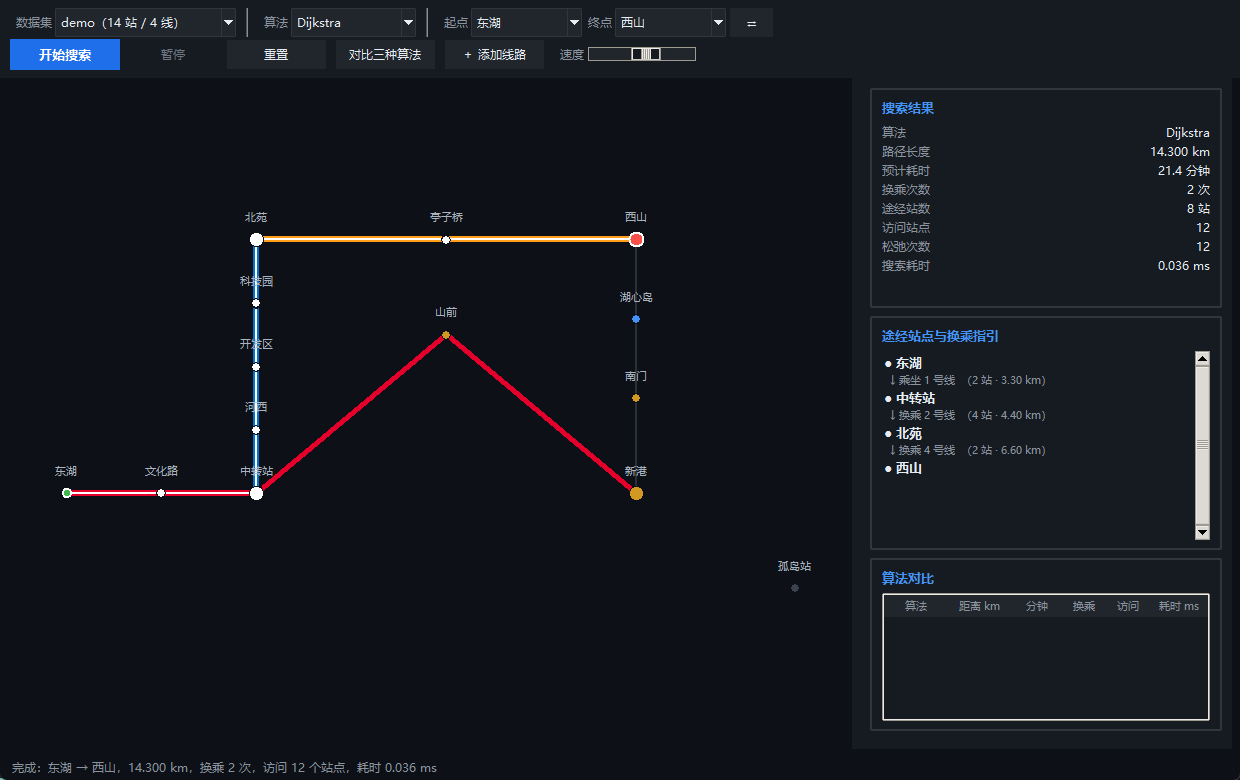
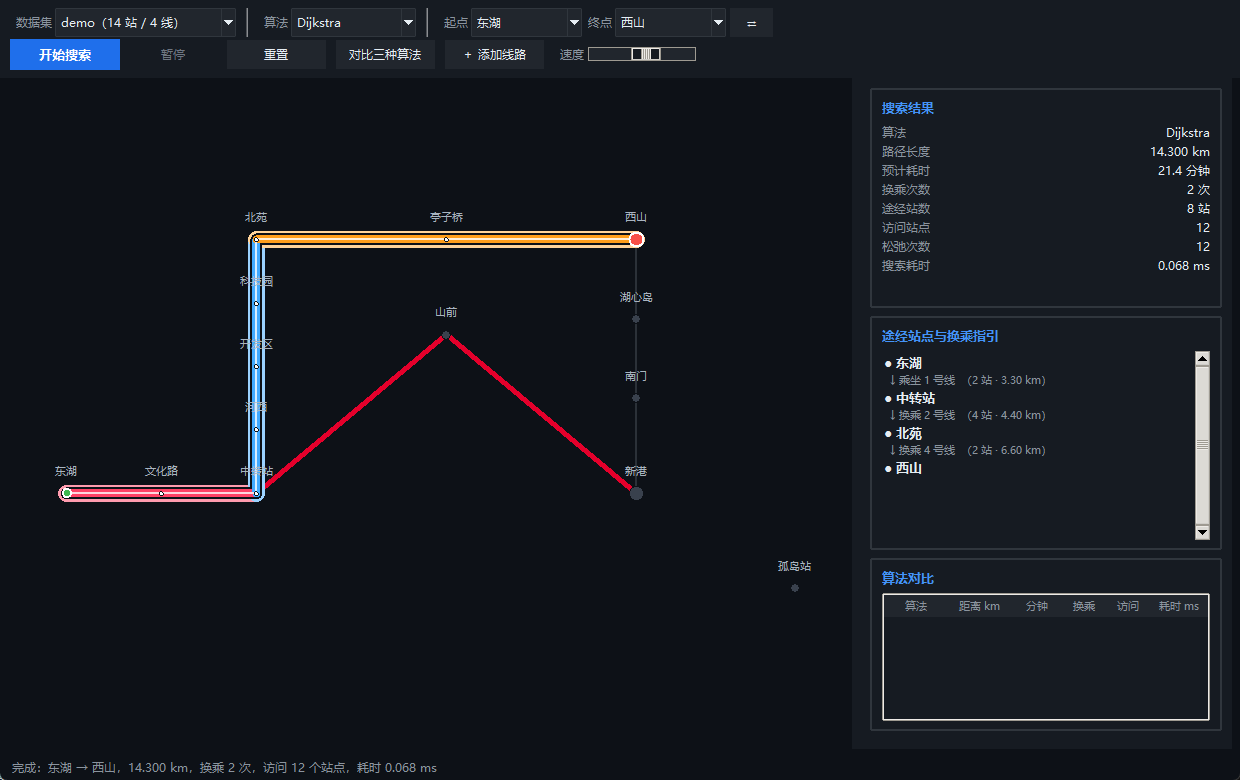
选题一：增强结果路径高亮
- 路径改为四层描边（光晕/深色缝隙/提亮色芯/同色高光），
  深色线路经 HLS 提亮后也能一眼辨认
- 结果态压暗非路径站点、缩小路径站点，避免白点链切断线路颜色
- 同一线路的连续区段合并成折线并按层绘制，消除换乘点白色圆环
- 同步 README、实验报告 4.1 与 03/05/06 截图

Changed region(s): [[0.0306, 0.2769, 0.521, 0.6462], [0.4903, 0.6154, 0.521, 0.6462]]

diff --git a/第一部分/选题一_城市交通路径导航系统/src/ui/theme.py b/第一部分/选题一_城市交通路径导航系统/src/ui/theme.py
@@ -37,6 +37,20 @@ NODE_OUTLINE = "#0d1117"
 EDGE_DIM = "#2b3138"        # 未被路径经过的线路
 LABEL = "#a9b4c0"
 
+# ---------------------------------------------------------------- 结果路径
+# 高亮分四层叠画：亮色光晕 → 深色缝隙 → 线路色主芯 → 同色系高光。
+# 每一层都用"提亮后"的线路色：像 21 号线（#201747 深紫）这种
+# 在深色底图上几乎看不见的线，算出的路径也能一眼跳出来。
+PATH_HALO_WIDTH = 17
+PATH_GAP_WIDTH = 12
+PATH_CORE_WIDTH = 8
+PATH_HIGHLIGHT_WIDTH = 2.4
+PATH_MIN_LUMA = 160.0       # 主芯线路色的最低感知亮度
+PATH_HALO_MIN_LUMA = 205.0  # 光晕的最低感知亮度
+PATH_HIGHLIGHT_MIN_LUMA = 235.0  # 中心高光：同色系里最亮的一档
+PATH_STATION_RADIUS = 2.0   # 结果态路径上的站点缩成小铆钉
+NODE_DIM = "#39414d"        # 结果模式下没被路径经过的站点
+
 # ---------------------------------------------------------------- 字体
 FAMILY = "Microsoft YaHei UI"
 FONT_UI = (FAMILY, 10)

diff --git a/HANDOFF.md b/HANDOFF.md
@@ -1,84 +1,70 @@
 # HANDOFF —— 数据结构实践（两个选题）
 
-> `数据结构实践[副本].docx` 里是两份并列的任务书，两个选题都已实现成独立项目。
-> 目录已整理完毕：选题一在 `第一部分/`，选题二在 `第二部分/`，课程资料在 `课程资料/`。
-> 两份实验报告均已加上统一封面（姓名/学号留空待填）与目录。
+> `数据结构实践[副本].docx` 是两份并列任务书，两个选题都已实现为独立项目。
+> 选题一在 `第一部分/`，选题二在 `第二部分/`，课程资料在 `课程资料/`。
+> 两份实验报告均已加统一封面（姓名/学号留空待填）与目录。
 
 ## 选题一：城市交通路径导航系统 —— 已完成
 
-Python 3.14 + Tkinter，三层解耦（`graph.py` / `solver.py` / `ui/`），三种算法（Dijkstra、A\*、最少换乘 BFS），界面支持网络图缩放平移、搜索动画、路径高亮、换乘指引、三算法对比、不连通报错、动态增删。
+Python 3.14 + Tkinter，三层解耦（`graph.py` / `solver.py` / `ui/`），三种算法（Dijkstra、A\*、最少换乘 BFS）。界面支持缩放平移、搜索动画、路径高亮、换乘指引、三算法对比、不连通报错、动态增删站点/线路。
 
-四份数据：`guangzhou`（310 站 / 21 线，**真实的广州地铁全网含广佛线**，由 OpenStreetMap 线路关系直接还原）、`beijing`（224 站 / 11 线，**真实的北京地铁主干**，由公开站点数据几何还原）、`metro`（65 站，构造）、`demo`（14 站，手工设计含孤立站）。
+四份数据：`guangzhou`（310 站 / 21 线，真实的广州地铁全网含广佛线，由 OpenStreetMap 线路关系还原）、`beijing`（224 站 / 11 线，真实的北京地铁主干，由公开站点数据几何还原）、`metro`（65 站，构造）、`demo`（14 站，手工设计含孤立站）。
 
-验证：`tests/test_algorithms.py`（9 组 3060 断言）、`tests/test_guangzhou.py`（5 组 1884 断言）、`tests/test_ui.py`（5 组 52 断言）全部通过。文档：`docs/实验报告.md`（五章）、`docs/算法过程讲解.md`（逐步推演，数据来自 `tools/trace_algorithms.py`）、7 张截图。
+验证：`tests/test_algorithms.py`（9 组 3060 断言）、`tests/test_guangzhou.py`（6 组 1943 断言）、`tests/test_ui.py`（5 组 52 断言）全部通过。文档：`docs/实验报告.md`（五章）、`docs/算法过程讲解.md`（数据来自 `tools/trace_algorithms.py`）、7 张截图。
 
-**做过一轮 23 agent 的独立审查**，核心算法无缺陷，修复了 8 个问题（其中一个是动画进行中切换算法会让按钮永久卡死的交互 bug，一个是数据不变量未校验导致 A\* 静默次优）。
+做过一轮 23 agent 独立审查，核心算法无缺陷，修复 8 个问题（含动画中切换算法会让按钮永久卡死、数据不变量未校验导致 A\* 静默次优）。
+
+**路径高亮增强（2026-10-24）**：用户要求"最后计算出来的线路颜色明显一点"。`_redraw_route` 改为四层描边（17px 光晕 → 12px 深色缝隙 → 8px 色芯 → 2.4px 同色高光），颜色经 `brighten()` 在 HLS 空间提亮（只动明度，避免等比放大把 5 号线 `#AA0061` 打爆成 `#ff00ff`）。要点：
+
+- `_route_runs()` 把同一线路的连续区段合并成折线，并**按层统一绘制**（先所有光晕、再所有缝隙……）；逐段/逐线路叠加会在换乘站处啃出白色圆环；
+- 结果态把非路径站点压暗为 `NODE_DIM`、路径站点缩成 2px 小铆钉（起终点保持原尺寸），`clear_search` 恢复；
+- 新增 `theme` 常量 `PATH_*`、`NODE_DIM`；`_layout` 与新增 `_layout_stations` 共用半径逻辑。
+
+文档 README 与报告 4.1 已同步；`docs/screenshots/03/05/06` 已用新绘制重新截图。三组测试仍全部通过。
 
 ## 选题二：任务调度模拟器 —— 已完成
 
-同样的技术栈与分层（`models.py` / `scheduler.py` / `engine.py` / `ui/`），三种算法（FCFS、非抢占式优先级调度、时间片轮转），采用**逐时间单位模拟**（与任务书对"单步"的定义一致）。
+同技术栈与分层（`models.py` / `scheduler.py` / `engine.py` / `ui/`），三种算法（FCFS、非抢占式优先级、时间片轮转），**逐时间单位模拟**（与任务书"单步"定义一致）。
 
-界面：任务表格（实时刷新七个属性与状态，模拟开始前可增删改）、甘特图（处理器时间线 + 每任务一行，含空闲区间）、当前状态面板（模拟时间 / 运行中任务 / 就绪队列）、统计结果（平均周转 / 等待 / 响应 + 每任务明细）、算法对比表（含 RR 多个时间片）、CSV 导入导出。
+界面：任务表格（实时刷新七个属性与状态，开始前可增删改）、甘特图（处理器时间线 + 每任务一行，含空闲区间）、当前状态面板（模拟时间 / 运行中任务 / 就绪队列）、统计结果（平均周转 / 等待 / 响应 + 每任务明细）、算法对比表（含 RR 多个时间片）、CSV 导入导出。
 
 五份数据：`sample`（任务书示例）、`simultaneous`、`mixed`、`batch`、`priority_mix`。
 
-验证：`tests/test_scheduler.py`（17 组 30627 断言）、`tests/test_cross_check.py`（3 组，与独立参考实现比对 480 组随机用例）、`tests/test_ui.py`（8 组 64 断言）全部通过，其中：
-- 任务书给出的 FCFS 预期结果 **6.50 / 3.75 / 3.75 逐格吻合**；
-- 有专门用例钉死 RR 的边界规则（"恰好在时间片结束时到达的任务先入队"）；
-- 60 轮随机数据 × 3 算法 × 3 时间片的不变量检查。
+验证：`tests/test_scheduler.py`（17 组 30627 断言）、`tests/test_cross_check.py`（3 组，与独立参考实现比对 480 组随机用例）、`tests/test_ui.py`（8 组 64 断言）全部通过。任务书 FCFS 预期值 6.50 / 3.75 / 3.75 逐格吻合；有专门用例钉死 RR 边界规则；60 轮随机 × 3 算法 × 3 时间片的不变量检查。
 
 文档：`docs/实验报告.md`（五章）、6 张截图、`README.md`。
 
-**做过一轮 26 agent 的独立审查**，修复了 13 个确认问题，其中几条值得记下来：
+做过一轮 26 agent 独立审查，修复 13 个确认问题，代表性几条：
 
-| 严重度 | 问题 | 修复 |
-|---|---|---|
-| high | 重置/换算法后 `last_result` 未清空，「导出结果」会写出上一轮的数据 | `_reset_engine` 统一清 `last_result` 与对比表 |
-| medium | RR 回队尾时没把任务状态改回「就绪」，任务表会同时出现多行"运行" | 引擎回队尾时置 `TaskState.READY` |
-| medium | 「修改」按钮因选中回调未接线而永远不启用 | `TaskTable(..., on_select=...)` 接上 |
-| medium | `run_to_end` 达到步数上限时**静默**返回含未完成任务的结果，平均值会悄悄漏掉它们 | 超限抛 `RuntimeError`；到达到达时刻上限（10⁶）直接拒绝 |
-| medium | 报告缺任务书要求的「算法对比结果截图」 | 4.3 节补上 04_compare.png |
-| low | 堆键末尾是 `Task` 对象，seq 冲突时抛 `TypeError` | 键改用自增入队序号收尾 |
-| low | 时间片边界的 `snapshot()` 把已挂起的任务仍报成"正在运行" | 让出处理器 + 快照里把它并入就绪队列 |
-| low | 算法对比只给了统计表，没给甘特图（任务书要求两者都要） | 对比表选中一行即在下方渲染该算法的甘特图 |
-| low | 甘特图每帧逐任务全量扫描（O(任务×段)） | 先建 task_id → 区间索引 |
-| low | FCFS 下时间片下拉框初始仍可编辑、换数据集后对比表残留、斑马纹被刷新覆盖、benchmark 重复跑 sample、5.2 节表述与数据不符、第二章缺链表对比 | 均已修 |
+- `last_result` 未清空导致「导出结果」写出上一轮数据（`_reset_engine` 统一清空）；
+- RR 回队尾没把任务状态改回「就绪」，任务表出现多行"运行"；「修改」按钮因选中回调未接线而永远不启用；
+- `run_to_end` 达到步数上限时静默返回含未完成任务的结果（改为抛 `RuntimeError`）；
+- 堆键尾部放 `Task` 对象，seq 冲突时抛 `TypeError`；甘特图全量扫描改为索引；
+- 报告补「算法对比结果截图」、甘特图与第二章链表对比。
 
 另有 3 条经核验为误报（时间片 int 截断、甘特图合并、"开始/继续"文字），未改。
 
 ## 关键决策与原因
 
-**语言选 Python + Tkinter**（两个选题共用）：任务书推荐"Python (Tkinter/PyQt) 或 C++ (Qt)"。本机 `py` 为 Python 3.14.3、Tkinter 就绪，而**没有任何 C++ 编译器在 PATH 中**，Qt 未安装。若课程强制 C++/Qt，需先装工具链后重做。
+**语言选 Python + Tkinter**：任务书推荐 Python (Tkinter/PyQt) 或 C++ (Qt)。本机 Python 3.14.3 + Tkinter 就绪，PATH 中无任何 C++ 编译器、Qt 未安装。若课程强制 C++/Qt，需先装工具链后重做。
 
-**Python 版本按 3.8+ 兼容**：原先第一部分 `src/models.py` 用了 `@dataclass(slots=True)`（3.10+ 特性），在 3.9/3.8 上导入即抛 `TypeError: dataclass() got an unexpected keyword argument 'slots'`。已移除 6 处 `slots=True`（只损失少量内存优化），两个 `run.py` 启动时检查版本并给出可读提示。其余 `list[str]` / `str | Path` 注解都在 `from __future__ import annotations` 之下，3.8 不会求值。两份 README 的环境要求已同步改为 3.8+。
+**Python 3.8+ 兼容**：移除第一部分 6 处 `@dataclass(slots=True)`（3.10+ 特性，在 3.9/3.8 导入即报错）；其余 `list[str]` / `str | Path` 都在 `from __future__ import annotations` 之下，3.8 不求值。两个 `run.py` 启动时检查版本。两份 README 环境要求已改 3.8+。
 
-**选题一：最少换乘的排序键用 `(换乘次数, 路程)`**。只用换乘次数时同层解不唯一，结果随堆内比较顺序漂移。
+**选题一：最少换乘排序键用 `(换乘次数, 路程)`**，否则同层解不唯一、随堆内顺序漂移。**生成器 + `_AlgoClock`** 解决动画与计时冲突（报告 3.5）。
 
-**选题一：生成器 + `_AlgoClock`** 解决"动画"与"计时"的冲突（详见报告 3.5）。
-
-**选题二：逐时间单位模拟**（而非事件驱动）。理由：任务书规定"单步 = 推进一个模拟时间单位"；空闲区间的记录变得平凡；动画粒度与模拟粒度一致。
-
-**选题二：RR 的"回队尾"被刻意延后**到下一个时间单位开头（记在 `_pending_requeue`），这样它自然排在新到达的任务后面。顺序若写反，同一份数据会算出完全不同的甘特图（报告 3.3 有最小例子）。
-
-**选题二：优先级堆的键取 `(priority, arrival_time, seq)`**。二叉堆不保证相同键值按插入顺序弹出，只用 priority 会导致结果不可复现。
+**选题二：逐时间单位模拟**（非事件驱动），因为任务书定义"单步 = 推进一个时间单位"，空闲区间记录也变平凡。**RR 的"回队尾"延后**到下一时间单位开头（`_pending_requeue`），顺序写反会得到完全不同的甘特图（报告 3.3 有最小例子）。**优先级堆键取 `(priority, arrival_time, seq)`**，否则相同优先级弹出顺序不可复现。
 
 ## 待验证项 / 已知限制
 
-- **兼容性已在官方 Python 3.8.10 嵌入式发行版上实测**：第一部分 3060 条、第二部分 30627 + 2567 条断言全部通过。该发行版不含 Tkinter，界面层未在 3.8 上实跑，但已通过 3.8 语法检查，且界面测试在 3.14 上通过。
-- **两个项目的对话框都只做过程序化冒烟测试**（选题一的右键菜单与"添加线路"、选题二的添加/修改任务对话框），没有用真实鼠标点过，建议人工过一遍。
-- 截图在本机 Windows 11 上自动截取，换机器重跑字体渲染可能有差异。
-- 选题二的模型按任务书要求不计上下文切换开销（但换人次数会统计出来）。
-- 两个项目的通用限制见各自报告的"局限与改进方向"一节。
+- **Python 3.8.10 嵌入式发行版实测**：第一部分 3060 条、第二部分 30627 + 2567 条断言全部通过。该发行版不含 Tkinter，界面层未在 3.8 实跑，但已过 3.8 语法检查，界面测试在 3.14 通过。
+- **两个项目的对话框只做过程序化冒烟测试**（右键菜单、添加线路、添加/修改任务），没有真实鼠标点过，建议人工过一遍。
+- 截图在本机 Windows 11 自动截取，换机器字体渲染可能有差异。新路径高亮的四层宽度按屏幕像素固定，不同 DPI 下观感可能略有差异。
+- 选题二按任务书要求不计上下文切换开销（但换人次数会统计）。
+- 通用限制见两份报告"局限与改进方向"。
 
-**广州数据集（2026-10-18 新增）**：`tools/import_guangzhou_metro.py` 读取 `tools/source/guangzhou_osm_stops.json`（Overpass API 抓取的 `route=subway` + `network=广州地铁` 关系，ODbL），合并上下行、排除快车、只保留**极大交路**、按站名合并换乘站，输出 `data/guangzhou/network.json`（310 站 / 21 线 / 385 区间 / 78 换乘站）。有分叉或分段运营的线路成为多条：3 号线主线 + 天河客运站—海傍贯通交路、14 号线 + 知识城支线、12 号线东/西段。11 号线为闭合环线（首尾重复赤沙）。界面自动发现，默认数据集会因站最多而变为广州。
+**广州数据集（2026-10-18）**：`tools/import_guangzhou_metro.py` 读取 `tools/source/guangzhou_osm_stops.json`（Overpass API 抓取的 `route=subway` + `network=广州地铁` 关系，ODbL），合并上下行、排除快车、只保留极大交路、按站名合并换乘站，输出 `data/guangzhou/network.json`（310 站 / 21 线 / 385 区间 / 78 换乘站）。分叉线路成为多条：3 号线主线 + 天河客运站—海傍贯通交路、14 号线 + 知识城支线、12 号线东/西段；11 号线为闭合环线。界面自动发现，默认数据集因站最多而变为广州。
 
-**广州数据的一轮 4 agent 独立审查**（2026-10-18）发现 15 条，已修复：
-- 3 号线原先被拆成"主线 + 6 站支线"，导致天河客运站—番禺广场/海傍被多算 1 次换乘；改为保留 OSM 里的 20 站贯通交路，最少换乘恢复 0 次；
-- 支线剥离函数 `branch_of` 在多偏离区块时会丢站、`canonical` 无法去重反向环线：整体改为"极大交路"模型，函数删除；
-- 同名站合并校验用质心距离，阈值实际放宽到约 1 km：改为最大两两距离；
-- 源数据缺节点/缺站名从静默跳过改为拒绝生成；颜色收集补 `ref` 保护；排序键加入站序，重新抓取时输出更稳定；
-- 界面三个既有 bug：切换数据集后画布不画起终点标记、BFS 状态栏把状态数当站点数、算法对比摘要仅凭距离宣称"同一条路径"（现改为比较实际乘车分段）。
-未修（记录为已知限制）：统一绕行系数 1.15 使部分线路里程偏高约 10%；并行线路在画布上重叠后画的遮住先画的；等长并行边可能产生多余换乘指引（Dijkstra/A\* 只优化距离）。
+广州数据一轮 4 agent 审查（2026-10-18）修复 15 条，关键：3 号线曾拆成"主线 + 支线"导致换乘数偏大（改为 20 站贯通交路）；支线剥离改"极大交路"模型；同名站合并改按最大两两距离；界面三处 bug（切换数据集不画起终点、BFS 状态栏误报站点数、对比摘要只比距离）。未修：绕行系数 1.15 使部分里程偏高约 10%；并行线路互相遮挡；等长并行边可能产生多余换乘指引。
 
 ## 复现命令
 
@@ -95,25 +81,17 @@ py run.py && py tests/test_scheduler.py && py tests/test_cross_check.py && py te
 ## 目录结构
 
 ```
-README.md                          两个选题的索引
-HANDOFF.md                         本文件
-第一部分/选题一_城市交通路径导航系统/   见该目录下的 README.md
-第二部分/选题二_任务调度模拟器/         见该目录下的 README.md
-课程资料/
-  数据结构实践[副本].docx           原始任务书
-  实验要求原文.txt                  任务书正文提取
-  实验要求解读.md                   两份任务书的逐条解读
+README.md                两个选题的索引
+HANDOFF.md               本文件
+第一部分/选题一_城市交通路径导航系统/   见该目录 README.md
+第二部分/选题二_任务调度模拟器/         见该目录 README.md
+课程资料/                 任务书原文、正文提取、逐条解读
 ```
-
-两个项目都已整理归位，各自独立可运行；根目录只保留索引与课程资料。
 
 ## 代码仓库
 
-已推送到 GitHub（**私有**仓库，可随时改为公开）：
+GitHub **私有**仓库：**https://github.com/3abgtv/data-structure-experiments**（分支 `main`）。
 
-**https://github.com/3abgtv/data-structure-experiments**
-
-- 分支：`main`
-- 未纳入仓库：`课程资料/`（任务书原文与解读，见 `.gitignore`）、`__pycache__/`
+- 未纳入仓库：`课程资料/`（见 `.gitignore`）、`__pycache__/`
 - 改为公开：`gh repo edit 3abgtv/data-structure-experiments --visibility public --accept-visibility-change-consequences`
-- 后续更新：在根目录 `git add -A && git commit -m "..." && git push`
+- 后续更新：根目录 `git add -A && git commit -m "..." && git push`

diff --git a/第一部分/选题一_城市交通路径导航系统/README.md b/第一部分/选题一_城市交通路径导航系统/README.md
@@ -45,7 +45,7 @@ py run.py
 
 修改之后，起点/终点下拉框、画布和统计面板都会立即刷新。所有编辑都作用在内存中的 `Graph` 对象上，不会写回磁盘文件。
 
-搜索过程中，**蓝色**表示位于前沿（已进入堆或队列但尚未确定）的站点，**橙色**表示已被算法确定（settle）的站点。搜索结束后，结果路径以加粗高亮显示，右侧面板给出统计数字和换乘指引。
+搜索过程中，**蓝色**表示位于前沿（已进入堆或队列但尚未确定）的站点，**橙色**表示已被算法确定（settle）的站点。搜索结束后，结果路径以四层描边高亮：线路本色先按 HLS 提亮，作为主芯，外面再套一圈亮色光晕；未被路径经过的线路与站点同时压暗。这样即使算出来的是 21 号线深紫、5 号线洋红这类在深色底图上几乎看不见的线，路径也能一眼跳出来。右侧面板给出统计数字和换乘指引。
 
 ## 三个算法
 

diff --git a/第一部分/选题一_城市交通路径导航系统/docs/实验报告.md b/第一部分/选题一_城市交通路径导航系统/docs/实验报告.md
@@ -249,7 +249,7 @@ def run(self, graph, start, goal, animate=True):
 
 ![搜索结果](screenshots/03_result.png)
 
-搜索完成后，结果路径以加粗高亮显示，未经过的线路被压暗，右侧同时列出统计数据和换乘指引。
+搜索完成后，结果路径以四层描边高亮显示：亮色光晕 → 深色缝隙 → 提亮后的线路色主芯 → 中心高光。线路本色先在 HLS 空间里提亮（只动明度、色相基本不变），再用于绘制——深色线路（如 21 号线深紫、5 号线洋红）原本几乎与深色底图融成一片，提亮后无论算出哪条线，路径都能一眼跳出来。未被路径经过的线路与站点同时压暗，路径上的站点缩成小铆钉，避免沿线的大圆点把连续的颜色切成白点链，右侧同时列出统计数据和换乘指引。
 
 ![三种算法对比](screenshots/04_compare.png)
 
